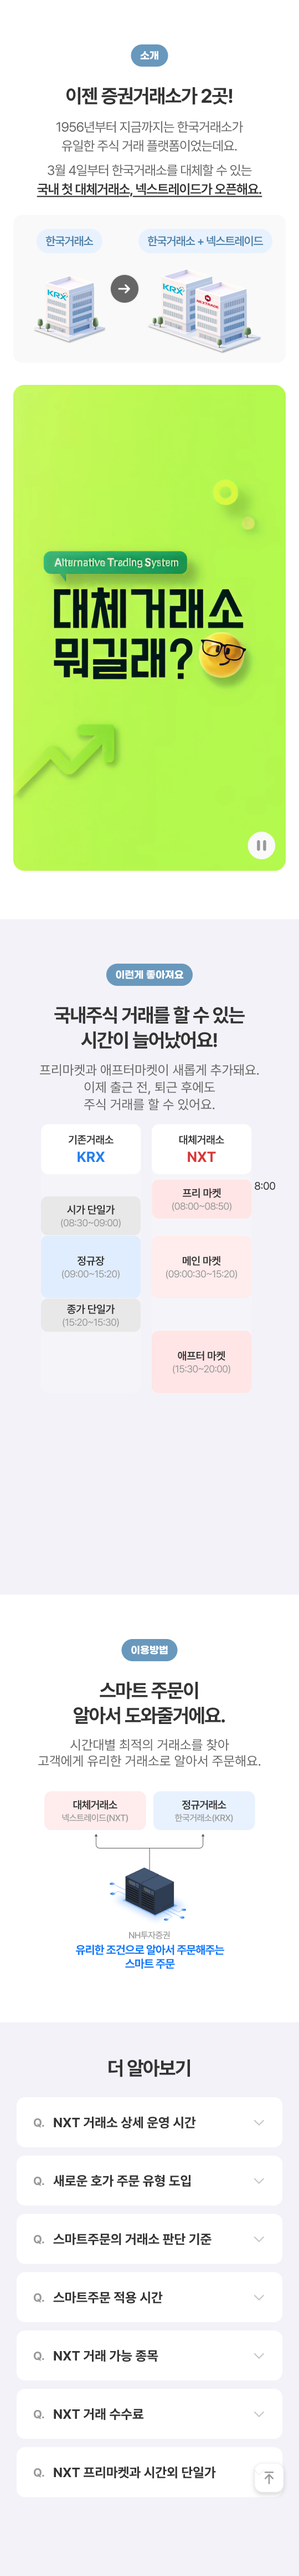
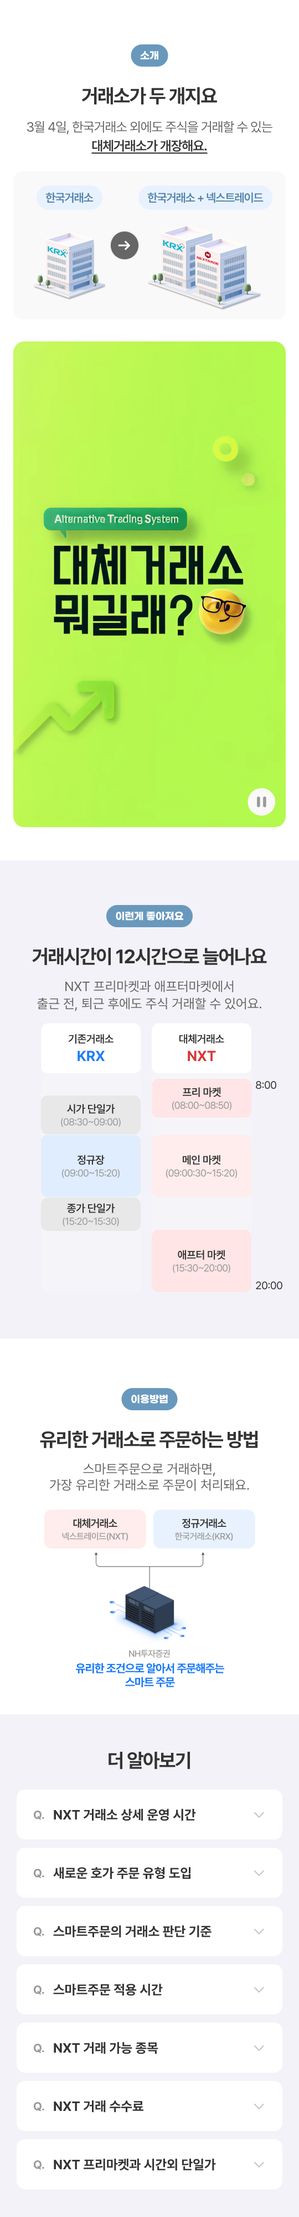
contents

diff --git a/index.html b/index.html
@@ -53,6 +53,8 @@
             width: 100%;
             height: auto;
             display: block;
+            opacity: 0;
+            transition: opacity 0.3s ease-out;
         }
 
         @media screen and (max-width: 540px) {
@@ -122,13 +124,24 @@
 
             new ScrollMagic.Scene({
                 triggerElement: "#lottie-container",
-                duration: window.innerHeight * 2, // 스크롤 구간 확장
+                duration: window.innerHeight * 1.2, // 스크롤 구간 축소
                 triggerHook: 0
             })
             .setPin("#lottie-container")
             .on("progress", function(e) {
                 targetProgress = e.progress;
                 requestAnimationFrame(animate);
+            })
+            .addTo(controller);
+
+            // 콘텐츠 전환을 위한 새로운 Scene 추가
+            new ScrollMagic.Scene({
+                triggerElement: ".content-wrapper",
+                triggerHook: 1, // 화면 하단에서 시작
+                reverse: false
+            })
+            .on("enter", function() {
+                document.querySelector('.content-image').style.opacity = 1;
             })
             .addTo(controller);
         }
